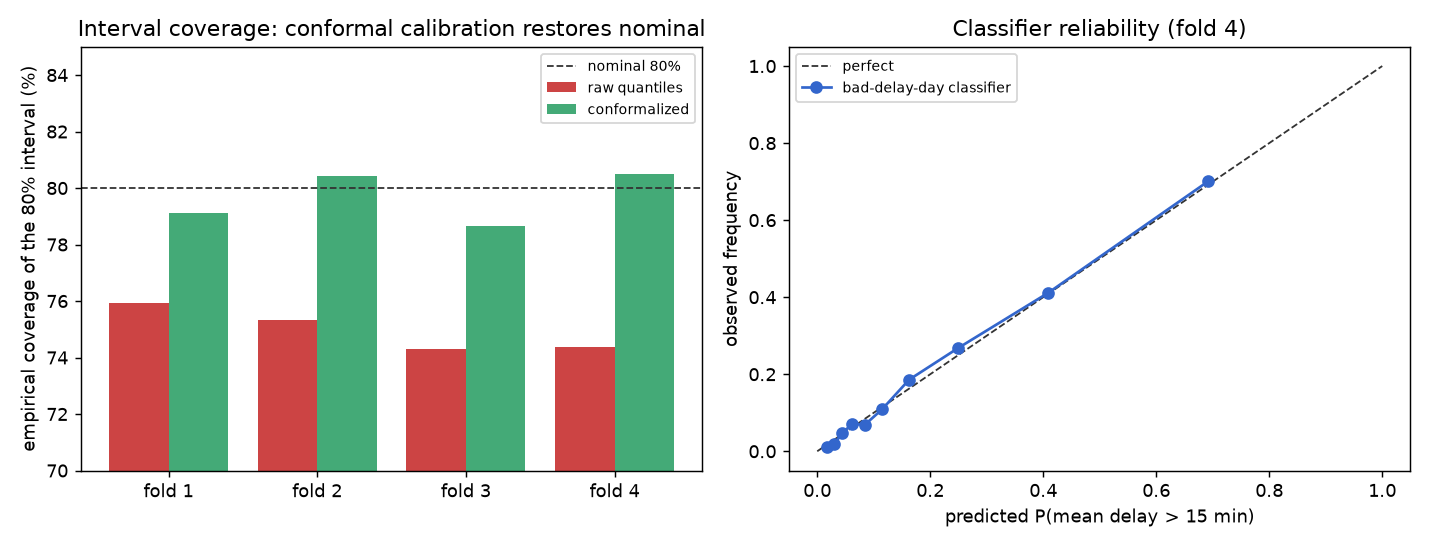
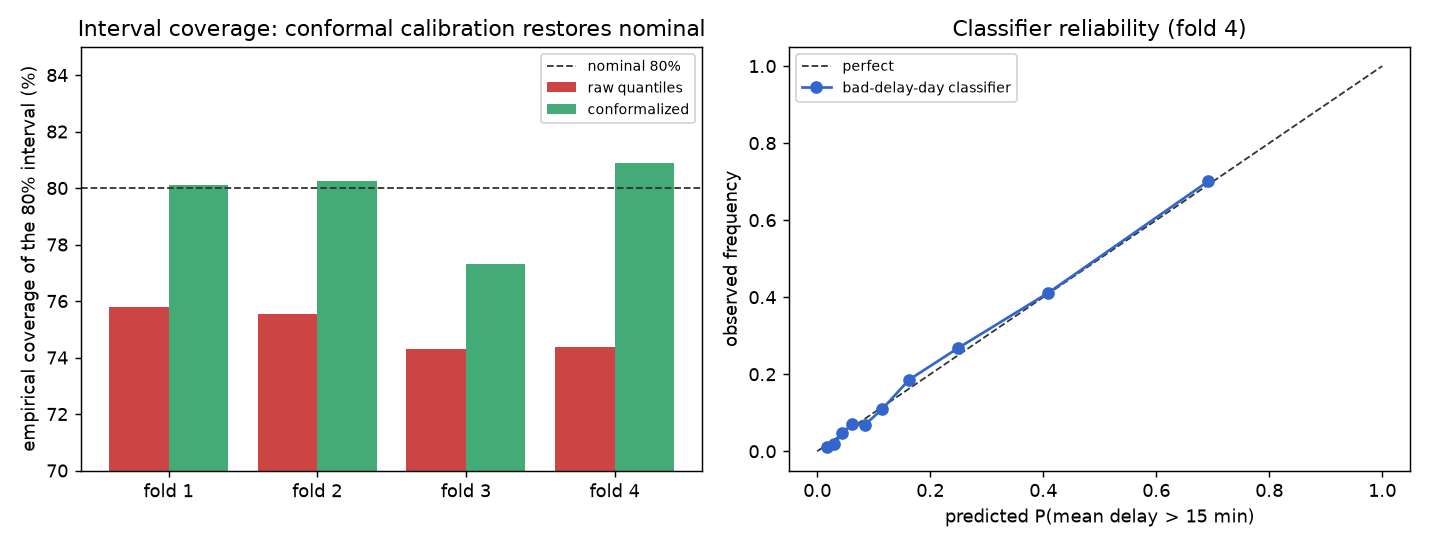
feat: dedicated calibration split for the conformal offset

diff --git a/src/training/walk_forward.py b/src/training/walk_forward.py
@@ -12,7 +12,7 @@ from src.config import (
     TABULAR_FEATURES, SEQUENCE_MODEL_FEATURES,
 )
 from src import tracking
-from src.evaluation.conformal import apply_cqr, cqr_offset
+from src.evaluation.conformal import apply_cqr, cqr_offset, split_calibration_window
 from src.evaluation.metrics import (
     calculate_classification_metrics,
     calculate_delay_metrics,
@@ -143,6 +143,10 @@ def train_eval_lightgbm_quantile(df, features, target_col, fold):
     if len(test_df) == 0:
         return None
 
+    # the early half of the val window drives early stopping, the later half
+    # is a dedicated calibration set the models never selected against
+    es_df, cal_df = split_calibration_window(val_df)
+
     base_params = {
         "n_estimators": params.get("n_estimators", 500),
         "num_leaves": params.get("num_leaves", 63),
@@ -165,12 +169,12 @@ def train_eval_lightgbm_quantile(df, features, target_col, fold):
         model = lgb.LGBMRegressor(objective="quantile", alpha=alpha, **base_params)
         model.fit(
             train_df[features].values, train_df[target_col].values,
-            eval_set=[(val_df[features].values, val_df[target_col].values)],
+            eval_set=[(es_df[features].values, es_df[target_col].values)],
             eval_metric="quantile",
             callbacks=[lgb.early_stopping(stopping_rounds=50, verbose=False)],
         )
         test_preds.append(model.predict(test_df[features].values))
-        cal_preds.append(model.predict(val_df[features].values))
+        cal_preds.append(model.predict(cal_df[features].values))
 
     sorted_preds = sort_quantile_predictions(np.column_stack(test_preds))
     y_test = test_df[target_col].values
@@ -178,10 +182,10 @@ def train_eval_lightgbm_quantile(df, features, target_col, fold):
     metrics = calculate_delay_metrics(y_test, sorted_preds[:, len(QUANTILE_ALPHAS) // 2])
     metrics.update(calculate_quantile_metrics(y_test, sorted_preds, alphas=QUANTILE_ALPHAS))
 
-    # split-conformal calibration: the offset is fit on the val window and
-    # applied to the held-out test interval, restoring nominal 80% coverage
+    # split-conformal calibration on the dedicated calibration half, applied
+    # to the held-out test interval to restore nominal 80% coverage
     sorted_cal = sort_quantile_predictions(np.column_stack(cal_preds))
-    offset = cqr_offset(val_df[target_col].values, sorted_cal[:, 0], sorted_cal[:, -1], alpha=0.2)
+    offset = cqr_offset(cal_df[target_col].values, sorted_cal[:, 0], sorted_cal[:, -1], alpha=0.2)
     lo_cal, hi_cal = apply_cqr(sorted_preds[:, 0], sorted_preds[:, -1], offset)
     metrics["coverage_80_cqr"] = float(interval_coverage(y_test, lo_cal, hi_cal))
     metrics["interval_width_cqr"] = float(interval_width(lo_cal, hi_cal))

diff --git a/tests/test_conformal.py b/tests/test_conformal.py
@@ -4,8 +4,9 @@ on a held-out set even when the raw quantile interval is miscalibrated.
 """
 
 import numpy as np
+import pandas as pd
 
-from src.evaluation.conformal import apply_cqr, cqr_offset
+from src.evaluation.conformal import apply_cqr, cqr_offset, split_calibration_window
 
 
 def _under_covering_split(seed):
@@ -48,3 +49,23 @@ def test_cqr_offset_masks_nans_and_handles_empty():
     # only the first row is complete, so the call must not raise
     assert np.isfinite(cqr_offset(y, lo, hi))
     assert cqr_offset(np.array([]), np.array([]), np.array([])) == 0.0
+
+
+def test_split_calibration_window_partitions_by_date():
+    """
+    The early-stopping half must strictly precede the calibration half and the
+    two must partition the window, so no row is both selected against and
+    used for the conformal offset.
+    """
+    dates = pd.date_range("2024-01-01", "2024-06-30", freq="D")
+    df = pd.DataFrame({
+        "date": np.repeat(dates, 3),
+        "value": np.arange(len(dates) * 3, dtype=float),
+    })
+
+    early, late = split_calibration_window(df)
+
+    assert len(early) + len(late) == len(df)
+    assert early["date"].max() < late["date"].min()
+    # halves of a six-month window should land within a few days of each other
+    assert abs(len(early) - len(late)) < 6 * 3

diff --git a/src/evaluation/conformal.py b/src/evaluation/conformal.py
@@ -40,3 +40,19 @@ def apply_cqr(lower, upper, offset):
     lower = np.asarray(lower, dtype=float)
     upper = np.asarray(upper, dtype=float)
     return lower - offset, upper + offset
+
+
+def split_calibration_window(val_df, date_col="date"):
+    """
+    Splits a validation frame by date into an early-stopping half and a
+    later, dedicated calibration half. Fitting the conformal offset on the
+    same rows that drove early stopping reuses data across model selection
+    and calibration, which quietly weakens the guarantee; the split keeps
+    the calibration set untouched by any selection decision. The later half
+    is used for calibration because it sits closest to the evaluation window.
+    """
+    dates = val_df[date_col]
+    midpoint = dates.min() + (dates.max() - dates.min()) / 2
+    early = val_df[dates < midpoint]
+    late = val_df[dates >= midpoint]
+    return early, late
